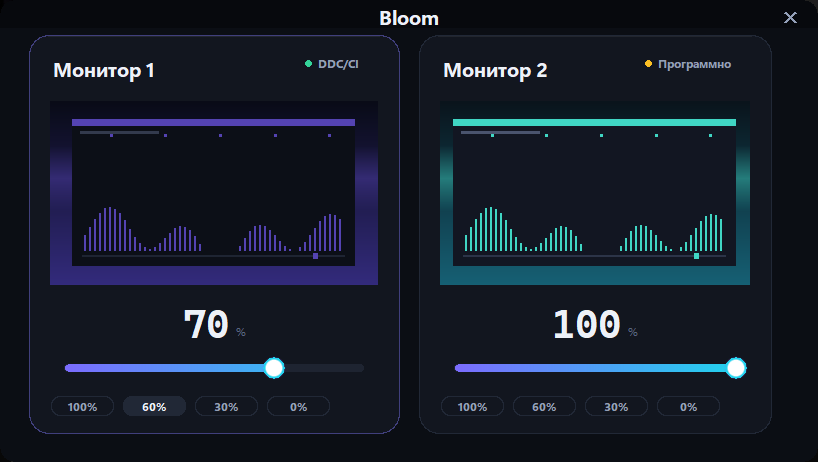
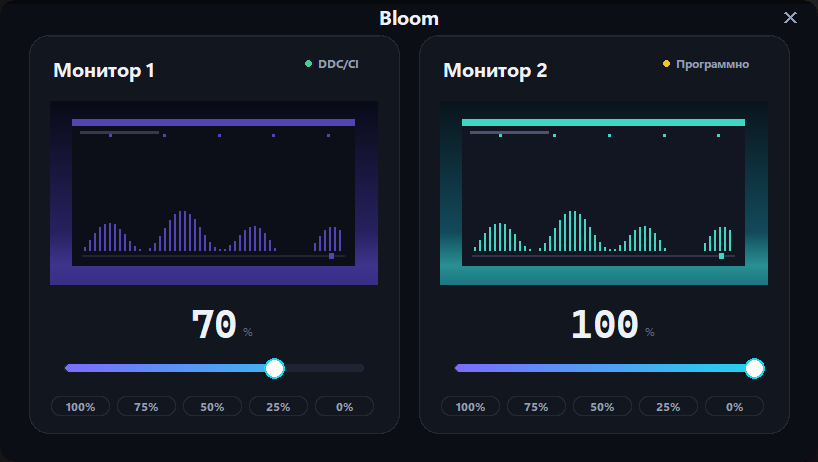
Симметричная вёрстка, круглый бегунок, пять пресетов и гифка
- ширина окна считается под число мониторов, отступ между карточками
  ставится только между ними: последняя карточка больше не сжимается
  (было 372 и 354 px — теперь обе 372)
- значение в карточке центрируется по цифрам, «%» остаётся суффиксом
- бегунок рисуется двумя овалами: полупрозрачное свечение в Tk
  выводится сеткой и при увеличении выглядело «иголками»
- пресеты 100 / 75 / 50 / 25 / 0
- бейджи больше не выглядят кликабельными, при наведении — пояснение
- хедер в цвете рабочей области
- в репозиторий вернулась гифка демо-режима (съёмка через PrintWindow,
  каждый кадр проверяется на принадлежность демо-интерфейсу)

diff --git a/bloom_app/widgets.py b/bloom_app/widgets.py
@@ -31,20 +31,13 @@ def _png_rgba(width: int, height: int, pixels: bytes) -> bytes:
             + chunk(b"IEND", b""))
 
 
-def _coverage(dx: float, dy: float, radius: float) -> int:
-    """Сглаженное покрытие пикселя у скруглённого угла (0..255)."""
-    if radius <= 0:
-        return 255
-    dist = math.hypot(dx, dy)
-    if dist <= radius - 1:
-        return 255
-    if dist >= radius:
-        return 0
-    return max(0, min(255, int(round(255 * (radius - dist + 0.5)))))
-
-
 def make_gradient(width: int, height: int, c1, c2) -> bytes:
-    """PNG горизонтального градиента со скруглёнными концами."""
+    """
+    PNG горизонтального градиента со скруглёнными концами.
+
+    Альфа жёсткая (0 или 255): мягкие полупрозрачные края при увеличении
+    превращаются в «иголки» — Tk рисует полупрозрачные пиксели сеткой.
+    """
     width = max(2, width)
     radius = height / 2.0
     data = bytearray()
@@ -60,7 +53,10 @@ def make_gradient(width: int, height: int, c1, c2) -> bytes:
                 dx = radius - x
             elif x > width - 1 - radius:
                 dx = x - (width - 1 - radius)
-            alpha = 255 if (dx <= 0 or dy <= 0) else _coverage(dx, dy, radius)
+            alpha = 255
+            if dx > 0 and dy > 0:
+                if math.hypot(dx, dy) > radius - 0.5:
+                    alpha = 0
             t = x / max(1, width - 1)
             data += bytes((
                 int(c1[0] + (c2[0] - c1[0]) * t),
@@ -69,33 +65,6 @@ def make_gradient(width: int, height: int, c1, c2) -> bytes:
                 alpha,
             ))
     return _png_rgba(width, height, bytes(data))
-
-
-def make_thumb(size: int, core, ring, glow) -> bytes:
-    """PNG круглого бегунка: белое ядро, цветное кольцо и мягкое свечение."""
-    size = max(8, size)
-    center = (size - 1) / 2.0
-    core_r = size * 0.34
-    ring_r = size * 0.44
-    data = bytearray()
-    for y in range(size):
-        for x in range(size):
-            dist = math.hypot(x - center, y - center)
-            if dist <= core_r - 0.5:
-                data += bytes((core[0], core[1], core[2], 255))
-            elif dist <= ring_r:
-                edge = min(1.0, (dist - (core_r - 0.5)) / 1.5)
-                data += bytes((
-                    int(core[0] + (ring[0] - core[0]) * edge),
-                    int(core[1] + (ring[1] - core[1]) * edge),
-                    int(core[2] + (ring[2] - core[2]) * edge), 255))
-            elif dist <= size / 2.0:
-                fade = 1.0 - (dist - ring_r) / max(0.5, size / 2.0 - ring_r)
-                alpha = int(round(70 * fade * fade))
-                data += bytes((glow[0], glow[1], glow[2], alpha))
-            else:
-                data += bytes((0, 0, 0, 0))
-    return _png_rgba(size, size, bytes(data))
 
 
 def photo_from_png(master, png: bytes) -> tk.PhotoImage:
@@ -197,20 +166,77 @@ class Card(tk.Frame):
         return frame
 
 
+class Tooltip:
+    """Подсказка, появляющаяся при наведении на виджет."""
+
+    def __init__(self, widget, text, fonts=None, delay=0.35):
+        self.widget = widget
+        self.text = text
+        self.fonts = fonts
+        self.delay = delay
+        self._after = None
+        self._window = None
+        widget.bind("<Enter>", self._schedule, add="+")
+        widget.bind("<Leave>", self._hide, add="+")
+        widget.bind("<ButtonPress>", self._hide, add="+")
+
+    def _schedule(self, _event=None) -> None:
+        self._cancel()
+        self._after = self.widget.after(int(self.delay * 1000), self._show)
+
+    def _cancel(self) -> None:
+        if self._after is not None:
+            try:
+                self.widget.after_cancel(self._after)
+            except Exception:
+                pass
+            self._after = None
+
+    def _show(self) -> None:
+        self._cancel()
+        if self._window is not None:
+            return
+        win = tk.Toplevel(self.widget)
+        win.wm_overrideredirect(True)
+        win.configure(bg=theme.CARD_LINE)
+        tk.Label(win, text=self.text, bg=theme.CARD, fg=theme.TEXT_DIM,
+                 font=self.fonts.small if self.fonts else None,
+                 padx=10, pady=6, justify="left").pack(padx=1, pady=1)
+        win.update_idletasks()
+        width = win.winfo_width()
+        x = self.widget.winfo_rootx() + self.widget.winfo_width() // 2 - width // 2
+        y = self.widget.winfo_rooty() + self.widget.winfo_height() + 8
+        x = max(8, min(x, self.widget.winfo_screenwidth() - width - 8))
+        win.geometry(f"+{x}+{y}")
+        self._window = win
+
+    def _hide(self, _event=None) -> None:
+        self._cancel()
+        if self._window is not None:
+            try:
+                self._window.destroy()
+            except Exception:
+                pass
+            self._window = None
+
+
 class Badge(tk.Canvas):
     """Небольшая «пилюля» с текстом — используется для указания способа."""
 
     def __init__(self, master, text="", dot_color=theme.OK, text_color=theme.TEXT_DIM,
-                 fonts=None, pad_x=10, pad_y=4, bg=theme.CARD):
+                 fonts=None, pad_x=10, pad_y=4, bg=theme.CARD, tooltip=None):
         self.fonts = fonts
         super().__init__(master, bg=bg, highlightthickness=0, bd=0,
-                         height=22, cursor="hand2")
+                         height=22)
         self._text = text
         self._dot = dot_color
         self._fg = text_color
         self._bg = bg
         self._pad_x = pad_x
         self._pad_y = pad_y
+        self._tooltip = None
+        if tooltip:
+            self._tooltip = Tooltip(self, tooltip, fonts=fonts)
         self.bind("<Configure>", lambda e: self._redraw())
 
     def set(self, text: str, dot_color=None, text_color=None) -> None:
@@ -323,7 +349,6 @@ class Slider(tk.Canvas):
         self._hover = False
         self._grad_image = None
         self._grad_width = 0
-        self._thumb_cache: dict[int, tk.PhotoImage] = {}
 
         self.bind("<Configure>", lambda e: self._redraw())
         self.bind("<Button-1>", self._on_press)
@@ -405,16 +430,6 @@ class Slider(tk.Canvas):
             self._grad_width = width
         return image
 
-    def _thumb(self, size: int) -> tk.PhotoImage:
-        image = self._thumb_cache.get(size)
-        if image is None:
-            image = photo_from_png(self, make_thumb(
-                size, (255, 255, 255),
-                hex_to_rgb(theme.ACCENT_2),
-                hex_to_rgb(theme.ACCENT)))
-            self._thumb_cache[size] = image
-        return image
-
     def _redraw(self) -> None:
         self.delete("all")
         w = self.winfo_width() or 1
@@ -438,9 +453,15 @@ class Slider(tk.Canvas):
             round_rect(self, thumb_x, cy - track_h / 2, x2, cy + track_h / 2,
                        track_h / 2, fill=theme.TRACK, outline="")
 
-        # бегунок
-        size = 28 if (self._hover or self._dragging) else 24
-        self.create_image(thumb_x, cy, image=self._thumb(size))
+        # Бегунок — два концентрических овала: получается ровный круг
+        # без полупрозрачности (она в Tk рисуется сеткой и выглядит
+        # «иголками» при увеличении).
+        radius = 12 if (self._hover or self._dragging) else 10
+        self.create_oval(thumb_x - radius, cy - radius, thumb_x + radius, cy + radius,
+                         fill=theme.ACCENT_2, outline="")
+        inner = radius - 2
+        self.create_oval(thumb_x - inner, cy - inner, thumb_x + inner, cy + inner,
+                         fill="#FFFFFF", outline="")
 
 
 class ValueReadout(tk.Canvas):
@@ -472,17 +493,19 @@ class ValueReadout(tk.Canvas):
         # иначе знак «%» наезжает на последнюю цифру
         if big:
             advance = big.measure("0")
-            value_w = advance * len(text)
+            digits_w = advance * len(text)
             pct_w = small.measure("%") if small else 10
         else:
-            value_w = len(text) * 18
+            digits_w = len(text) * 18
             pct_w = 10
-        gap = 7
-        total = value_w + gap + pct_w
-        x = max(0, (w - total) / 2)
+        gap = 6
 
+        # Центрируем именно цифры: знак «%» остаётся суффиксом справа.
+        # Если центрировать всю строку «75 %» целиком, цифры визуально
+        # уезжают влево и справа от значения кажется пустым.
+        x = max(0.0, (w - digits_w) / 2)
         self.create_text(x, h / 2, text=text, anchor="w", fill=self._color, font=big)
-        self.create_text(x + value_w + gap, h / 2 + 10, text="%", anchor="w",
+        self.create_text(x + digits_w + gap, h / 2 + 10, text="%", anchor="w",
                          fill=self._sub, font=small)
 
 

diff --git a/bloom_app/app.py b/bloom_app/app.py
@@ -36,16 +36,22 @@ class MonitorCard(widgets.Card):
 
         body = self.body(padx=theme.PAD, pady=18)
         body.pack_propagate(False)
+        self.body_frame = body
 
         # --- заголовок ---
         head = tk.Frame(body, bg=theme.CARD)
         head.pack(fill="x")
 
         # Бейдж пакуется первым: иначе растягивающийся заголовок
-        # вытеснит его и текст обрежется.
-        self.badge = widgets.Badge(head, text=monitor.method_label, fonts=fonts,
-                                   dot_color=theme.OK if monitor.method == engine.METHOD_DDC else theme.WARN,
-                                   text_color=theme.TEXT_DIM)
+        # вытеснит его и текст обрежется. Это просто метка состояния,
+        # ничего не делает — при наведении показывается пояснение.
+        self.badge = widgets.Badge(
+            head, text=monitor.method_label, fonts=fonts,
+            dot_color=theme.OK if monitor.method == engine.METHOD_DDC else theme.WARN,
+            text_color=theme.TEXT_DIM,
+            tooltip=("DDC/CI — аппаратная яркость монитора"
+                     if monitor.method == engine.METHOD_DDC
+                     else "DDC/CI недоступен — затемнение экранным оверлеем"))
         self.badge.pack(side="right", anchor="n")
 
         title_box = tk.Frame(head, bg=theme.CARD)
@@ -67,7 +73,7 @@ class MonitorCard(widgets.Card):
         # --- значение ---
         self.value = widgets.ValueReadout(body, fonts=fonts, bg=theme.CARD)
         self.value.set(monitor.level)
-        self.value.pack(pady=(8, 0))
+        self.value.pack(fill="x", pady=(8, 0))
 
         # --- слайдер ---
         self.slider = widgets.Slider(body, value=monitor.level, fonts=fonts, bg=theme.CARD,
@@ -78,12 +84,16 @@ class MonitorCard(widgets.Card):
         presets = tk.Frame(body, bg=theme.CARD)
         presets.pack(fill="x")
 
-        for value, label in ((100, "100%"), (60, "60%"), (30, "30%"), (0, "0%")):
-            btn = widgets.FlatButton(presets, text=label, fonts=fonts, width=64, height=28,
-                                      bg=theme.CARD, fg=theme.TEXT_DIM,
+        # пять равных кнопок, симметрично по краям карточки
+        values = (100, 75, 50, 25, 0)
+        gap = 6
+        btn_w = (PREVIEW_WIDTH - gap * (len(values) - 1)) // len(values)
+        for index, value in enumerate(values):
+            btn = widgets.FlatButton(presets, text=f"{value}%", fonts=fonts, width=btn_w,
+                                      height=28, bg=theme.CARD, fg=theme.TEXT_DIM,
                                       hover_bg=theme.CARD_LINE, hover_fg=theme.TEXT,
                                       command=lambda v=value: self._preset(v))
-            btn.pack(side="left", padx=(0, 8))
+            btn.pack(side="left", padx=(0, gap if index < len(values) - 1 else 0))
 
     def _preset(self, value: int) -> None:
         self.slider.set(value, notify=True)
@@ -211,25 +221,25 @@ class BloomApp:
         self._build_footer(content)
 
     def _build_header(self, parent: tk.Frame) -> None:
-        header = tk.Frame(parent, bg=theme.BG, height=24)
+        header = tk.Frame(parent, bg=theme.BG_DEEP, height=24)
         header.pack(fill="x", pady=(4, 0))
         header.pack_propagate(False)
 
         # название по центру — как в Discord
-        center = tk.Frame(header, bg=theme.BG)
-        tk.Label(center, text=APP_TITLE, bg=theme.BG, fg=theme.TEXT,
+        center = tk.Frame(header, bg=theme.BG_DEEP)
+        tk.Label(center, text=APP_TITLE, bg=theme.BG_DEEP, fg=theme.TEXT,
                  font=self.fonts.h1).pack()
         center.place(relx=0.5, rely=0.5, anchor="center")
 
         # кнопка закрытия справа
-        close = tk.Label(header, text="✕", bg=theme.BG, fg=theme.TEXT_DIM,
+        close = tk.Label(header, text="✕", bg=theme.BG_DEEP, fg=theme.TEXT_DIM,
                          font=self.fonts.h3, cursor="hand2")
 
         def enter(_e=None):
             close.configure(bg=theme.CARD_LINE, fg=theme.TEXT)
 
         def leave(_e=None):
-            close.configure(bg=theme.BG, fg=theme.TEXT_DIM)
+            close.configure(bg=theme.BG_DEEP, fg=theme.TEXT_DIM)
 
         close.bind("<Enter>", enter)
         close.bind("<Leave>", leave)
@@ -277,17 +287,19 @@ class BloomApp:
             child.destroy()
         self.cards.clear()
 
-        for monitor in monitors:
+        # отступ только между карточками: trailing-отступ съедал бы ширину
+        # последней карточки, и она получалась бы уже остальных
+        for index, monitor in enumerate(monitors):
             card = MonitorCard(self.cards_wrap, monitor, self.fonts, self._on_card_change)
-            card.pack(side="left", padx=(0, theme.GAP))
+            card.pack(side="left", padx=(0, theme.GAP if index < len(monitors) - 1 else 0))
             self.cards.append(card)
 
         if not monitors:
             return
 
-        # ширина окна подстраивается под число мониторов
+        # ширина окна — по числу мониторов, с запасом в пару пикселей
         count = len(monitors)
-        width = 2 * theme.PAD + 12 + count * CARD_WIDTH + (count - 1) * theme.GAP
+        width = 2 * (theme.PAD + 6) + count * CARD_WIDTH + (count - 1) * theme.GAP + 2
         self._apply_geometry(min(width, 1600))
 
     def _on_card_change(self, monitor: engine.Monitor, value: int) -> None:

diff --git a/README.md b/README.md
@@ -1,12 +1,15 @@
 # Bloom
 
 <p align="center">
-  <img src="docs/screenshot.png" width="680" alt="Bloom — управление яркостью мониторов">
+  <img src="docs/demo.gif" width="680" alt="Bloom — управление яркостью мониторов">
 </p>
 
 **Bloom** — небольшое нативное приложение для Windows, которое меняет яркость
 нескольких мониторов. По карточке на каждый экран: живое превью, отдельный
 ползунок и пресеты. Тёмная тема — единственная.
+
+На гифке — демонстрационный режим (`python bloom.py --demo`): вымышленные
+мониторы с анимированными превью, реальные экраны не затрагиваются.
 
 ---
 
@@ -21,8 +24,9 @@
 * **Живое превью** — миниатюра экрана обновляется в реальном времени и показывает
   результат изменения яркости.
 * **Управление по каждому монитору отдельно** — свой ползунок, своё значение
-  и пресеты (100 / 60 / 30 / 0 %) в карточке каждого экрана.
-* **Окно в размер содержимого** — ширина подстраивается под число мониторов.
+  и пресеты (100 / 75 / 50 / 25 / 0 %) в карточке каждого экрана.
+* **Симметричная вёрстка** — одинаковые отступы по обе стороны, значение
+  ровно по центру карточки, ширина окна считается под число мониторов.
 * Никаких внешних зависимостей, никакой записи в реестр — только стандартная
   библиотека Python и Win32 API.
 
@@ -37,6 +41,16 @@
 
 Приложение само определяет режим и, если аппаратный канал в процессе работы
 откажет, переключается на программный.
+
+## Демонстрационный режим
+
+```bash
+python bloom.py --demo
+```
+
+Вместо настоящих мониторов показываются два вымышленных экрана с
+анимированными превью. Реальные DDC/CI и оверлеи при этом не задействуются —
+режим нужен для скриншотов, документации и записей видео.
 
 ## Запуск
 
